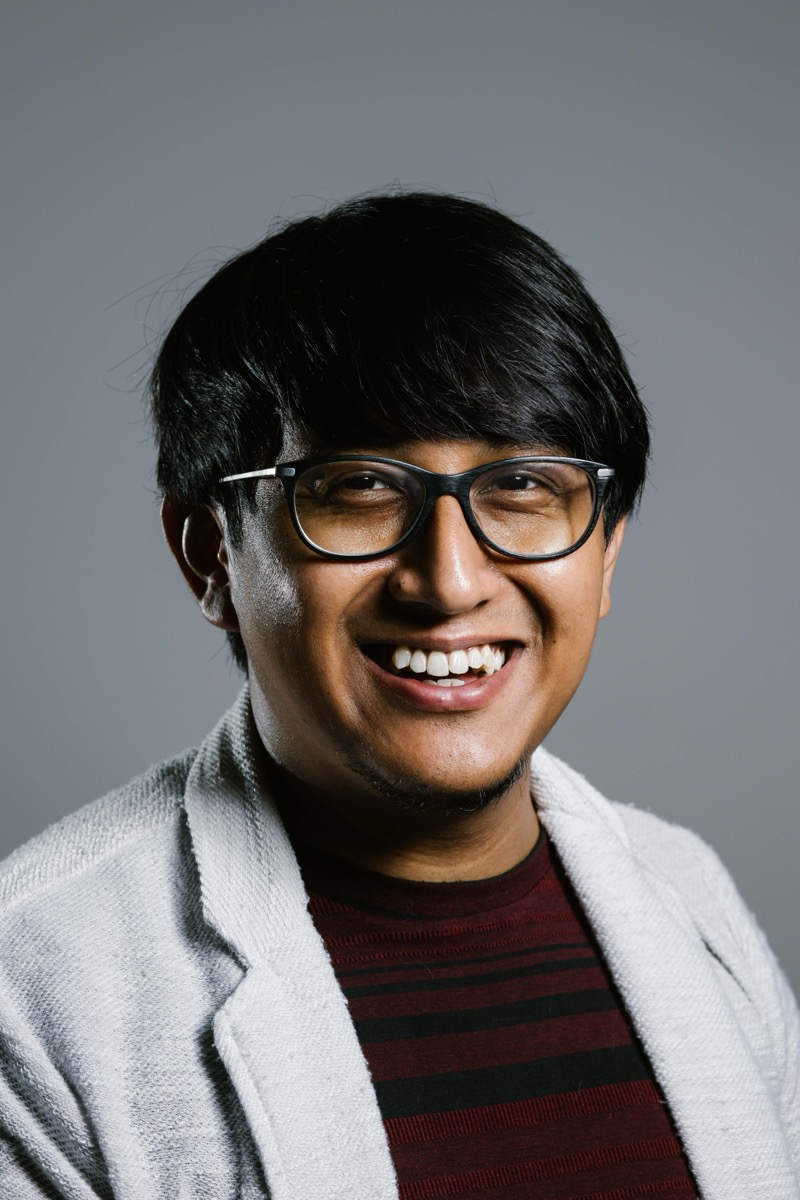
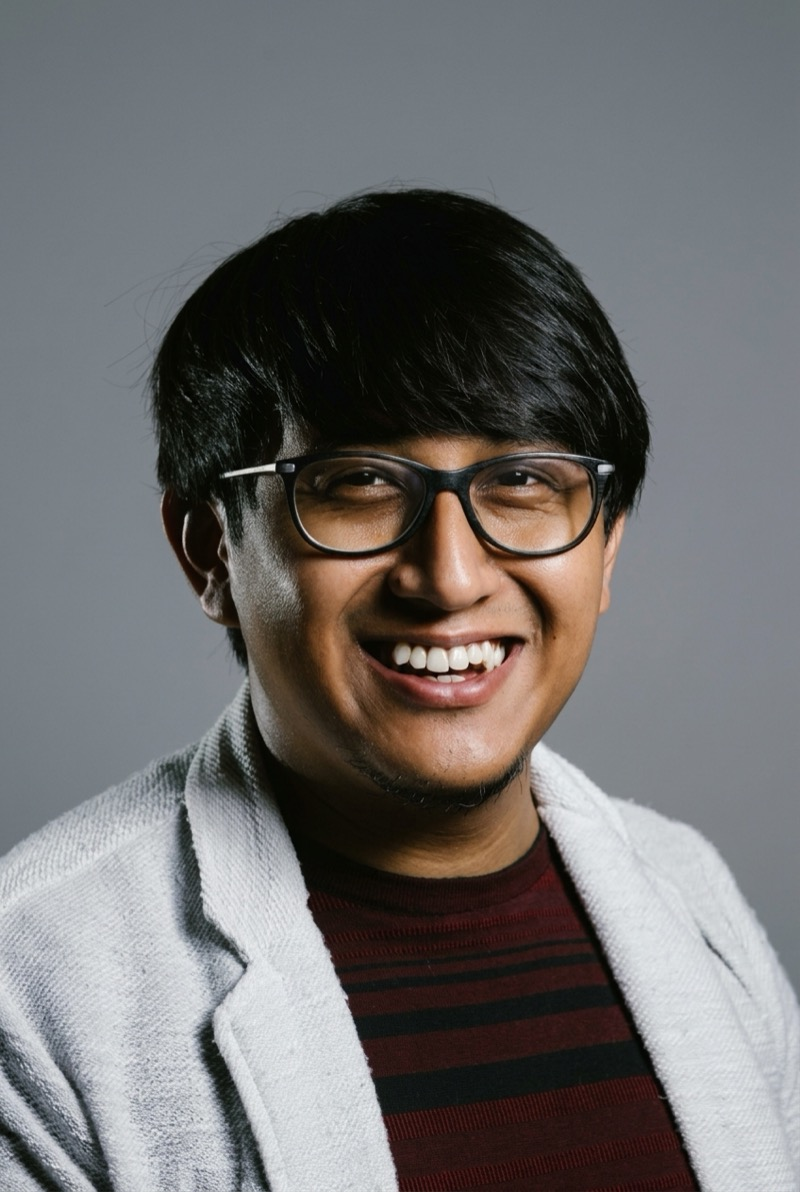
fix(brand): apply approved matte skin retouch and improve headshot crop

diff --git a/src/components/CorporateDetails.tsx b/src/components/CorporateDetails.tsx
@@ -42,7 +42,7 @@ export default function CorporateDetails() {
                   fill
                   priority
                   sizes="(max-width: 640px) 144px, 176px"
-                  className="object-cover object-[center_40%] transition-transform duration-500 hover:scale-105"
+                  className="object-cover object-[center_30%] transition-transform duration-500 hover:scale-105"
                 />
               </div>
 
